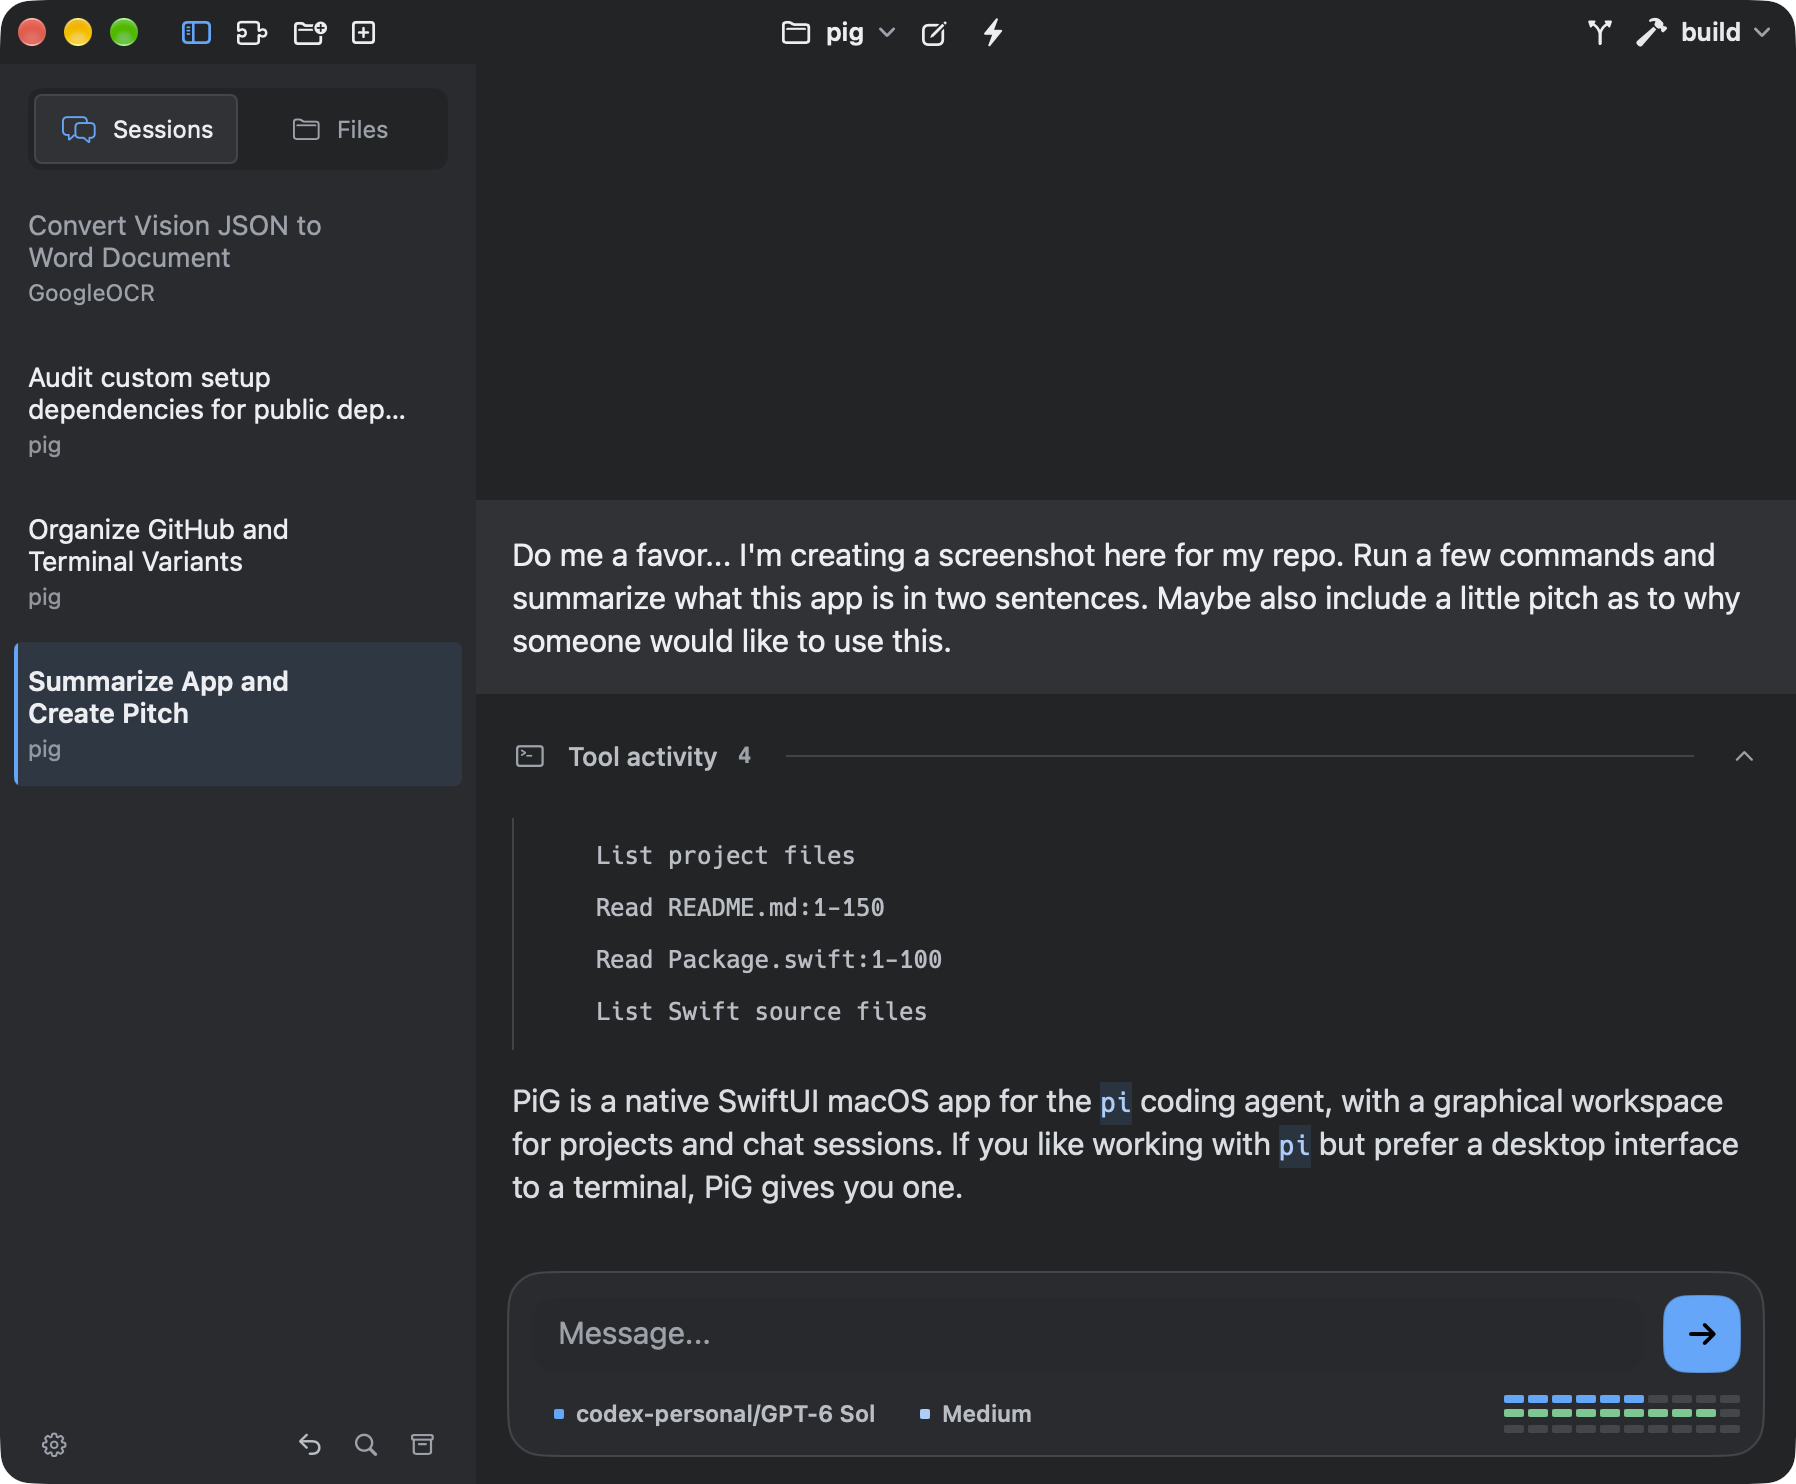
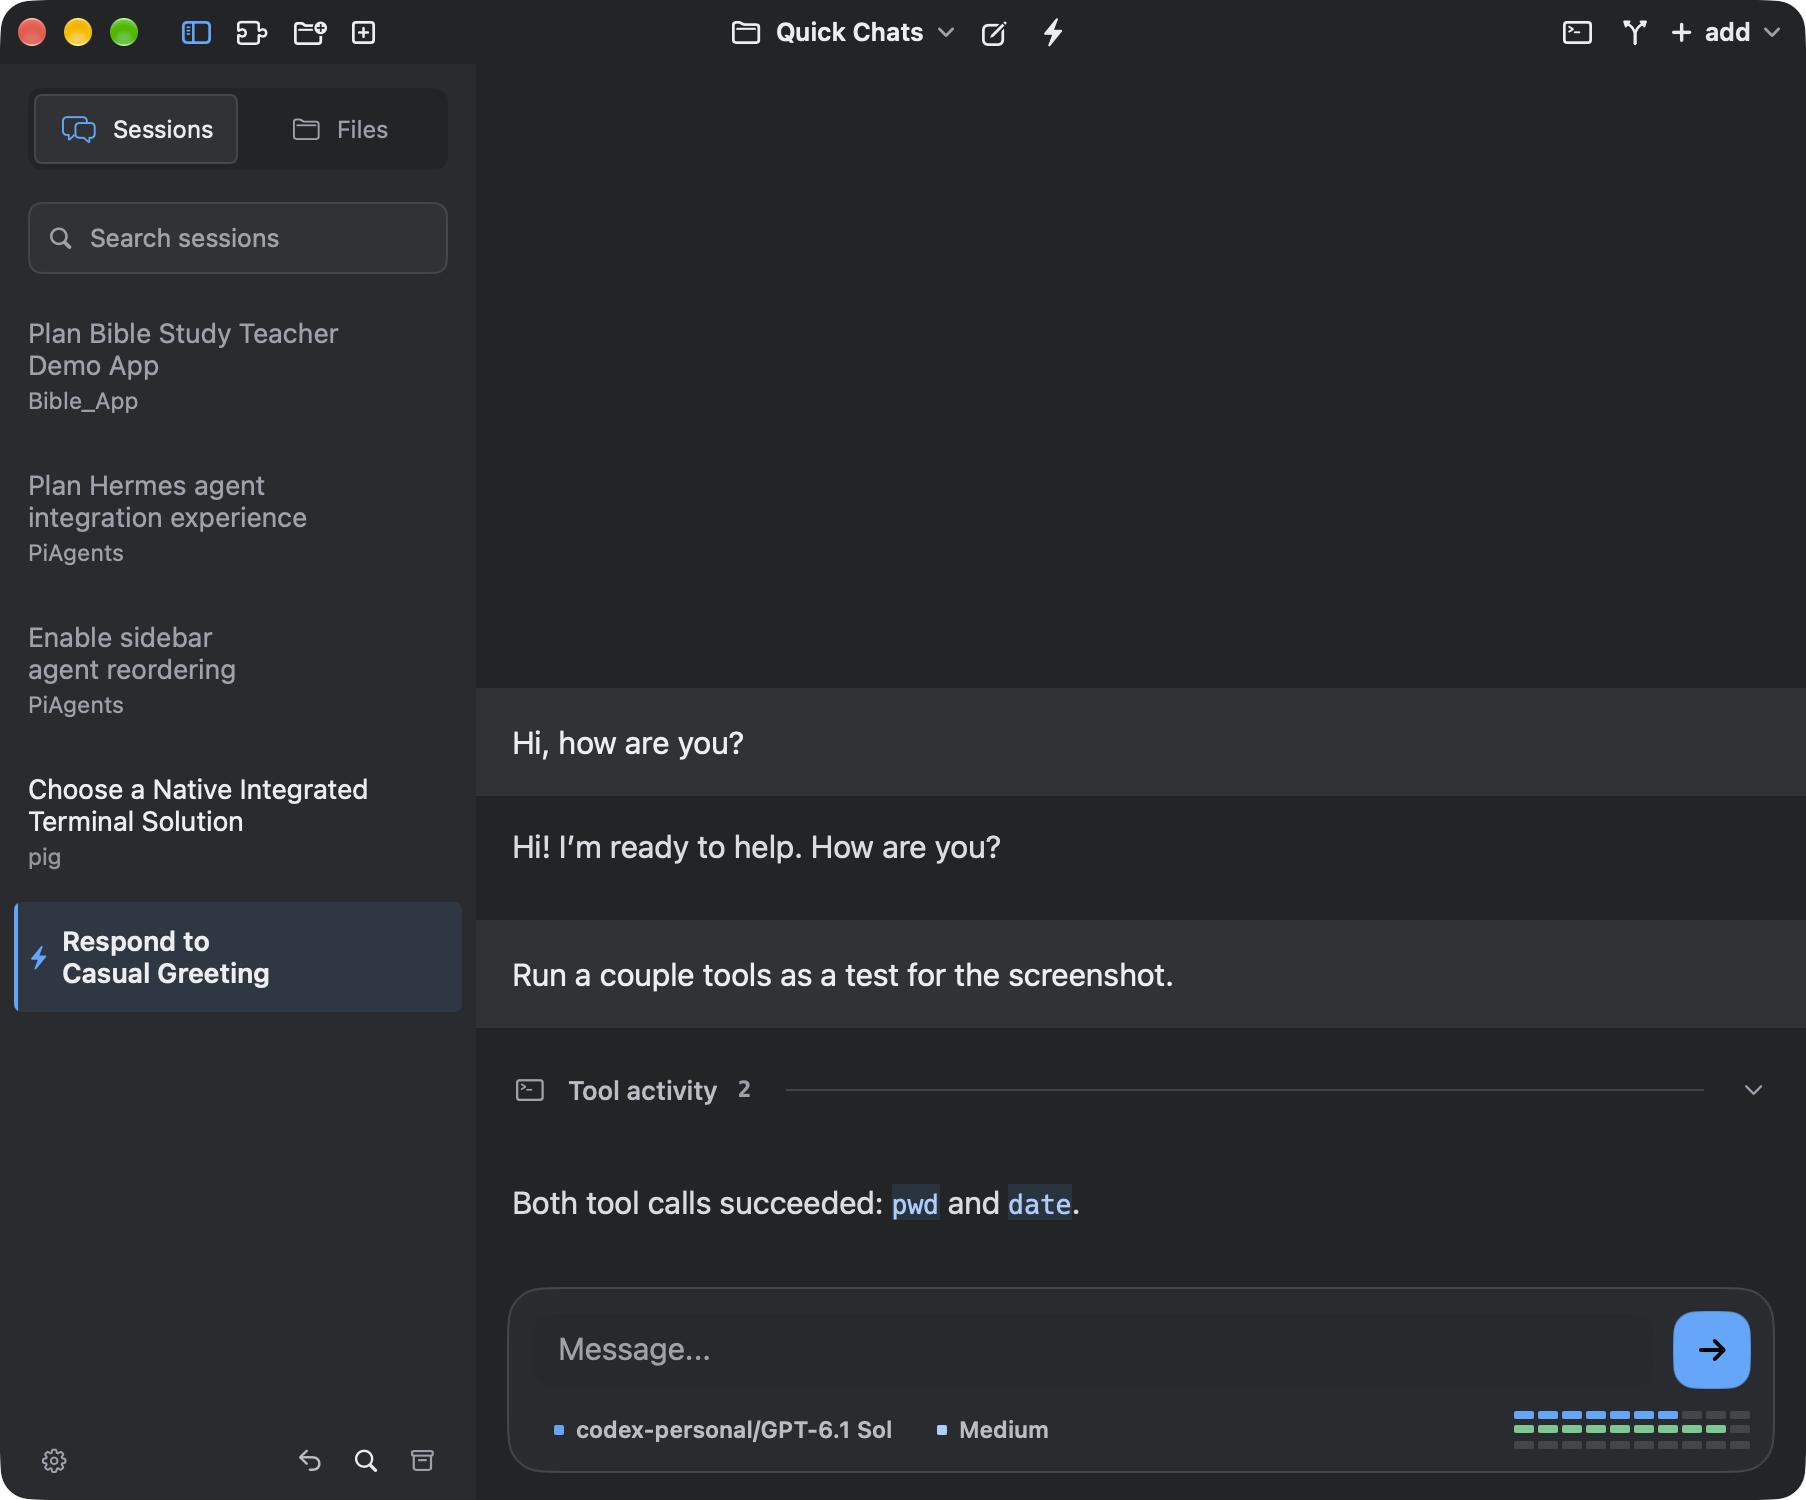
Fix terminal tab switching and release 1.2.2
- Hide inactive terminal tabs in AppKit and move keyboard focus to the
  active tab; SwiftUI opacity and hit testing let hidden tabs take input
- Make the whole tab, close and new-tab buttons clickable, not just
  their text and icons

diff --git a/Sources/PiG/EmbeddedTerminalView.swift b/Sources/PiG/EmbeddedTerminalView.swift
@@ -6,6 +6,7 @@ import SwiftTerm
 struct EmbeddedTerminalView: NSViewRepresentable {
     @Environment(\.appTheme) private var appTheme
     let workingDirectoryPath: String?
+    let isActive: Bool
     let onExit: () -> Void
     let onTitleChange: (String) -> Void
 
@@ -17,6 +18,7 @@ struct EmbeddedTerminalView: NSViewRepresentable {
         let view = ShellTerminalView(frame: NSRect(x: 0, y: 0, width: 400, height: 300))
         view.processDelegate = context.coordinator
         view.optionAsMetaKey = false
+        view.isHidden = !isActive
         applyTheme(to: view)
         view.startShell(workingDirectoryPath: workingDirectoryPath)
         return view
@@ -26,6 +28,20 @@ struct EmbeddedTerminalView: NSViewRepresentable {
         context.coordinator.onExit = onExit
         context.coordinator.onTitleChange = onTitleChange
         applyTheme(to: view)
+        setActive(isActive, view: view)
+    }
+
+    /// Tabs are stacked AppKit views. SwiftUI's opacity and hit-testing
+    /// modifiers don't stop an NSView from taking clicks and keystrokes,
+    /// so inactive tabs are hidden in AppKit and focus follows the active tab.
+    private func setActive(_ active: Bool, view: ShellTerminalView) {
+        guard view.isHidden == active else { return }
+        view.isHidden = !active
+        if active {
+            DispatchQueue.main.async { view.window?.makeFirstResponder(view) }
+        } else if view.window?.firstResponder === view {
+            view.window?.makeFirstResponder(nil)
+        }
     }
 
     static func dismantleNSView(_ view: ShellTerminalView, coordinator: Coordinator) {
@@ -91,7 +107,7 @@ final class ShellTerminalView: LocalProcessTerminalView {
 
     override func viewDidMoveToWindow() {
         super.viewDidMoveToWindow()
-        window?.makeFirstResponder(self)
+        if !isHidden { window?.makeFirstResponder(self) }
     }
 
     private static func resolvedDirectory(_ path: String?) -> String {

diff --git a/Sources/PiG/Chat/TerminalWorkspaceView.swift b/Sources/PiG/Chat/TerminalWorkspaceView.swift
@@ -188,12 +188,12 @@ struct TerminalWorkspaceView: View {
                 ForEach(tabs) { tab in
                     EmbeddedTerminalView(
                         workingDirectoryPath: tab.workingDirectoryPath,
+                        isActive: tab.id == activeTabID,
                         onExit: { onExit(tab.id) },
                         onTitleChange: { onTitleChange(tab.id, $0) }
                     )
                     .id(tab.id)
-                    .opacity(tab.id == activeTabID ? 1 : 0)
-                    .allowsHitTesting(tab.id == activeTabID)
+                    .zIndex(tab.id == activeTabID ? 1 : 0)
                 }
             }
             .frame(maxWidth: .infinity, maxHeight: .infinity)
@@ -231,6 +231,7 @@ private struct TerminalTabStrip: View {
                             .padding(.leading, 10)
                             .padding(.trailing, 6)
                             .frame(maxWidth: 110, minHeight: 24, maxHeight: 24, alignment: .leading)
+                            .contentShape(Rectangle())
                     }
                     .buttonStyle(.plain)
                     .help(tab.workingDirectoryPath ?? "~")
@@ -239,6 +240,7 @@ private struct TerminalTabStrip: View {
                         Image(systemName: "xmark")
                             .font(AppFonts.ui(9, weight: .bold))
                             .frame(width: 20, height: 24)
+                            .contentShape(Rectangle())
                     }
                     .buttonStyle(.plain)
                     .foregroundStyle(appTheme.muted)
@@ -258,6 +260,7 @@ private struct TerminalTabStrip: View {
                 Image(systemName: "plus")
                     .font(AppFonts.ui(11, weight: .bold))
                     .frame(width: 24, height: 24)
+                    .contentShape(Rectangle())
             }
             .buttonStyle(.plain)
             .foregroundStyle(appTheme.secondaryText)

diff --git a/README.md b/README.md
@@ -1,8 +1,12 @@
 # PiG
 
 <p>
-  <img src="images/pig-main-window.png" alt="PiG main window" width="49%">
-  <img src="images/pig-chat-session.png" alt="PiG chat session" width="49%">
+  <img src="images/pig-main-window.png" alt="PiG project home and recent sessions" width="49%">
+  <img src="images/pig-chat-session.png" alt="PiG chat session with tool activity" width="49%">
+</p>
+<p>
+  <img src="images/pig-split-terminal.png" alt="PiG chat with split terminal" width="49%">
+  <img src="images/pig-fullscreen-terminal.png" alt="PiG fullscreen terminal" width="49%">
 </p>
 
 PiG is a SwiftUI macOS GUI for the `pi` coding agent.
